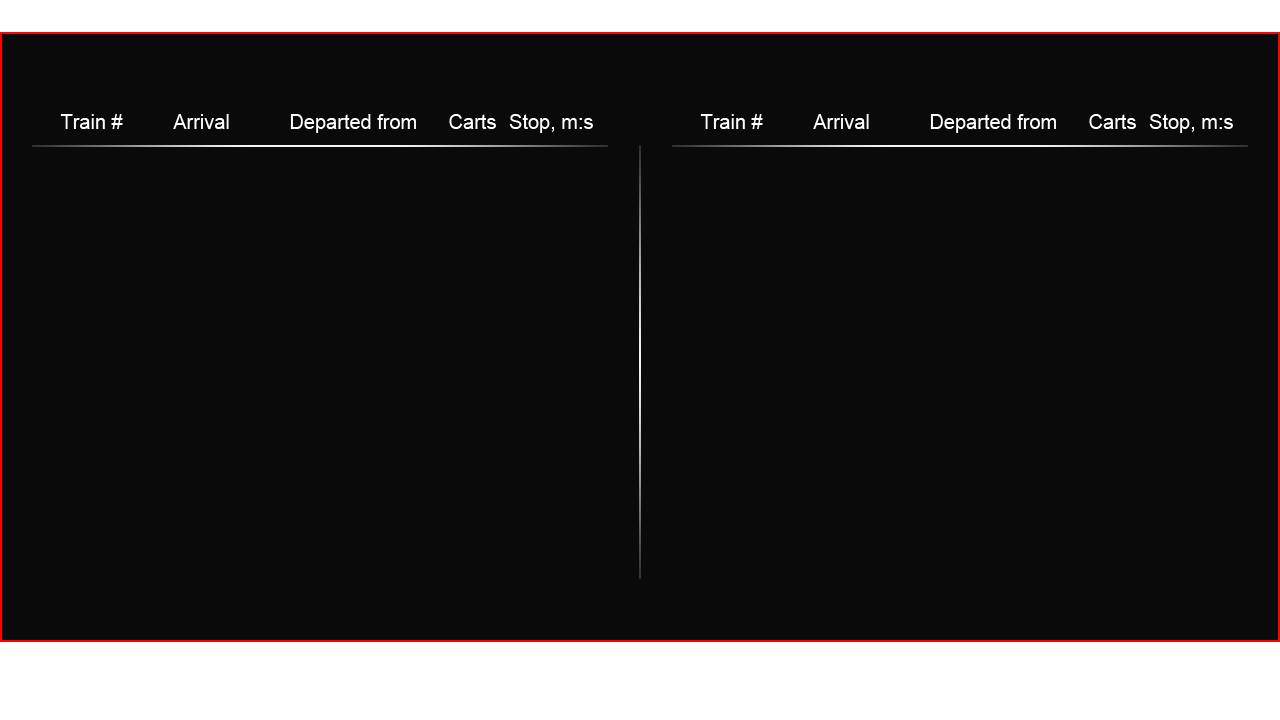
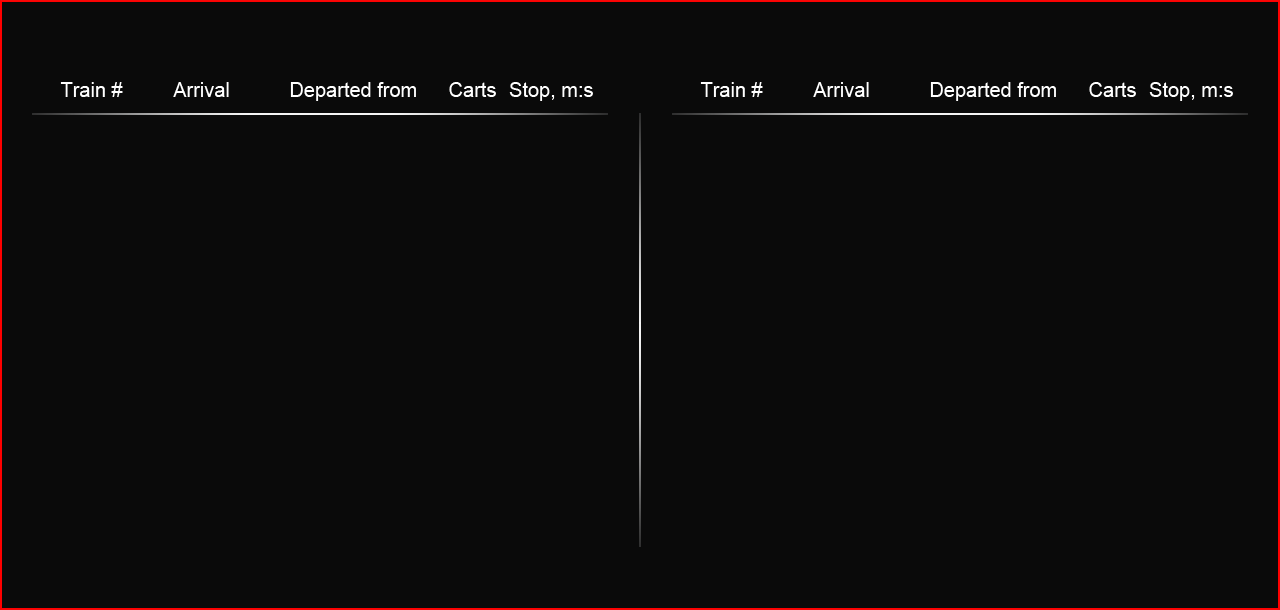
minor fixes

diff --git a/view/scheduler_view.py b/view/scheduler_view.py
@@ -41,7 +41,7 @@ class SchedulerView(View):
     def on_activate(self):
         self.is_activated = True
         if self.background_sprite is None:
-            self.background_sprite = Sprite(self.background_image, x=0, y=0, batch=self.batch,
+            self.background_sprite = Sprite(self.background_image, x=0, y=78, batch=self.batch,
                                             group=self.groups['main_frame'])
             self.background_sprite.opacity = 0
 
@@ -52,8 +52,6 @@ class SchedulerView(View):
     @_view_is_active
     def on_deactivate(self):
         self.is_activated = False
-        self.background_sprite.delete()
-        self.background_sprite = None
         for label in self.train_labels:
             label.delete()
 

diff --git a/ctrl/scheduler_controller.py b/ctrl/scheduler_controller.py
@@ -34,7 +34,8 @@ class SchedulerController(Controller):
         self.is_activated = False
         self.model.on_deactivate()
         self.view.on_deactivate()
-        self.parent_controller.on_close_schedule()
+        if self.parent_controller.is_activated:
+            self.parent_controller.on_close_schedule()
 
     def on_change_screen_resolution(self, screen_resolution):
         self.view.on_change_screen_resolution(screen_resolution)

diff --git a/view/button/zoom_out_button.py b/view/button/zoom_out_button.py
@@ -15,7 +15,7 @@ class ZoomOutButton(Button):
         self.text = '> <'
         self.font_name = 'Perfo'
         self.is_bold = True
-        self.font_size = 32
+        self.font_size = 30
         self.x_margin = 1280
         self.y_margin = 112
         self.button_size = (80, 80)

diff --git a/view/button/zoom_in_button.py b/view/button/zoom_in_button.py
@@ -15,7 +15,7 @@ class ZoomInButton(Button):
         self.text = '< >'
         self.font_name = 'Perfo'
         self.is_bold = True
-        self.font_size = 32
+        self.font_size = 30
         self.x_margin = 1280
         self.y_margin = 112
         self.button_size = (80, 80)
